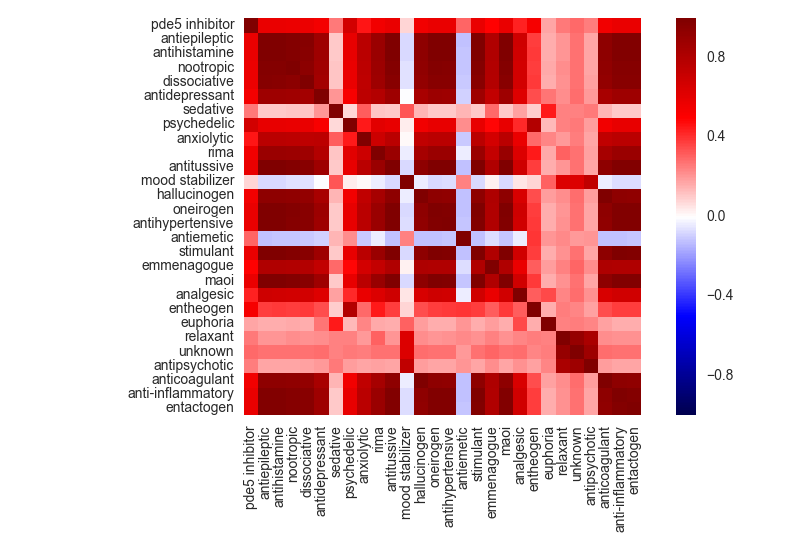
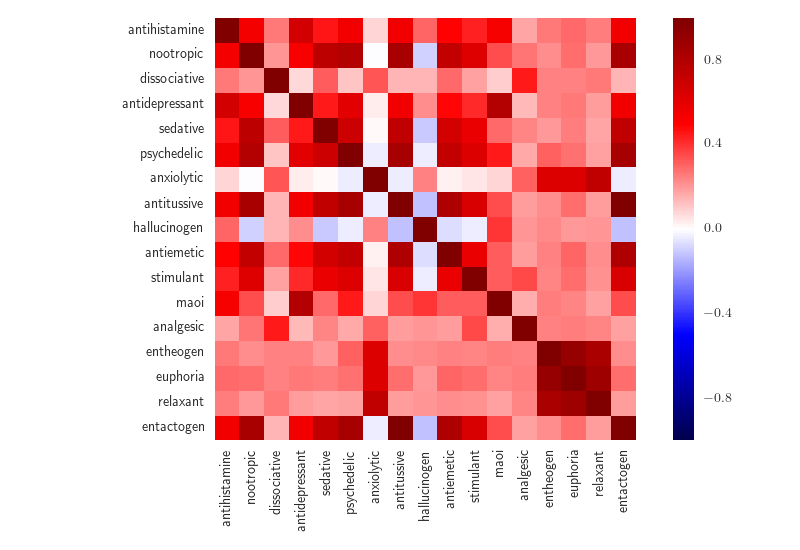
update

diff --git a/src/effect-cluster.py b/src/effect-cluster.py
@@ -1,4 +1,4 @@
-import json
+import json, brewer2mpl
 
 import numpy as np 
 import matplotlib.pyplot as plt 
@@ -10,7 +10,7 @@ import matplotlib.ticker as plticker
 from sklearn.cluster import KMeans, AgglomerativeClustering
 from sklearn.decomposition import PCA
 from sklearn.metrics import silhouette_score
-from sys import argv
+from awesome_print import ap 
 from matplotlib import rcParams
 rcParams['text.usetex'] = True
 
@@ -18,9 +18,9 @@ m = np.loadtxt('../data/effect-matrix-actually-occurred.tsv',delimiter='\t')
 effects = open('../data/effects-that-actually-occurred','rb').read().splitlines()
 x = m.dot(m.T)
 x /= float(m.shape[1])
-var = x.var(axis=0)
-mu = x.mean(axis=0)
-x = (x - mu)/var
+#var = x.var(axis=0)
+#mu = x.mean(axis=0)
+#x = (x - mu)/var
 
 '''
 #Visualize correlation matrix
@@ -31,13 +31,11 @@ ax.set_yticklabels(effects,rotation='horizontal')
 ax.set_xticklabels(effects[::-1],rotation='vertical')
 plt.tight_layout()
 plt.savefig('../imgs/effect-correlation-matrix.png')
+del fig,ax
 '''
-
-
 pca = PCA(n_components=10)
 X = pca.fit_transform(x)
 
-'''
 #Scree plot
 fig = plt.figure()
 ax = fig.add_subplot(111)
@@ -51,9 +49,8 @@ ax.set_xlabel(artist.format('Principal Component'))
 ax.set_xlim(xmin=0.5,xmax=5.5)
 plt.tight_layout()
 plt.savefig('../imgs/scree-plot.png')
-
 del fig,ax
-'''
+
 '''
 fig = plt.figure()
 ax = fig.add_subplot(111)
@@ -73,7 +70,7 @@ plt.show()
 #Kmeans just as good as agglomerative here 
 silhouettes = {}
 to_save = {}
-for nclus in xrange(2,5):
+for nclus in xrange(2,6):
 	kmeans = KMeans(n_clusters=nclus,n_init=2)
 	labels = kmeans.fit_predict(X)
 
@@ -85,8 +82,8 @@ for nclus in xrange(2,5):
 					  "labels":labels.tolist()}
 	print '%d clusters: %.04f'%(nclus,silhouettes[nclus])
 
-'''
-json.dump(to_save,open('../data/%s-matrix-kmeans-cluster-labels.json'%filename,'wb'))
+json.dump(to_save,open('../data/effect-matrix-kmeans-cluster-labels.json','wb'))
+
 fig = plt.figure()
 ax = fig.add_subplot(111)
 
@@ -103,5 +100,39 @@ ax.set_xticklabels(map(artist.format,clusters))
 ax.set_ylabel(artist.format('Silhouette score'))
 ax.set_yticks([0.6,0.8,1])
 plt.tight_layout()
-plt.savefig('../imgs/%s-silhouette-score.png'%filename)
-'''
+plt.savefig('../imgs/effect-silhouette-score.png')
+del fig,ax
+
+labels = to_save[2]["labels"]
+colors = {label:color for label,color in zip(np.unique(labels),
+						brewer2mpl.get_map('Set2', 'qualitative', 8).mpl_colors)}
+shapes = {label:shape for label,shape in zip(np.unique(labels),
+									['o','s','*','x','D'])}
+
+fig,axs = plt.subplots(ncols=2,sharex=True,sharey=True)
+#display pcs on left
+axs[0].scatter(X[:,0],X[:,1],c=X[:,2],
+	cmap=plt.cm.seismic,alpha=0.8, clip_on=False)
+artist.adjust_spines(axs[0])
+axs[0].set_xlabel(artist.format('PC 1'))
+axs[0].set_ylabel(artist.format('PC 2'))
+axs[0].set_aspect('equal')
+loc = plticker.MultipleLocator(base=1.0)
+axs[0].xaxis.set_major_locator(loc)
+axs[0].yaxis.set_major_locator(loc)
+
+#--Print out effects in each cluster
+d = {cluster:[effect for i,effect in enumerate(effects)
+					if labels[i]==cluster] for cluster in np.unique(labels)}
+
+for i in xrange(X.shape[0]):
+	axs[1].scatter(X[i,0],X[i,1],marker=shapes[labels[i]],c=colors[labels[i]],alpha=0.8)
+artist.adjust_spines(axs[1])
+axs[1].set_xlabel(artist.format('PC 1'))
+axs[1].set_ylabel(artist.format('PC 2'))
+axs[1].annotate('\n'.join(d[1]),xy=(0.05,0.6),color=colors[1],xycoords='axes fraction')
+axs[1].annotate('\n'.join(d[0]),xy=(0.5,0.06),color=colors[0],xycoords='axes fraction')
+
+plt.tight_layout()
+plt.savefig('../imgs/effect-matrix-pca-w-clusters.png')
+

diff --git a/src/effect-occurrence.py b/src/effect-occurrence.py
@@ -33,10 +33,11 @@ json.dump({'expected occurrence':len(db)/float(len(effects)),
 
 #--- Exclude effects that never occurred 
 
-idx = [i for i,effect in enumerate(effects) if tally[effect]>0]
+idx = [i for i,effect in enumerate(effects) if tally[effect]>200]
 better_m = m[idx,:]
 
-np.savetxt('../data/effect-matrix-actually-occurred.tsv',better_m,delimiter='\t')
+np.savetxt('../data/effect-matrix-actually-occurred.tsv',better_m,
+	delimiter='\t', format='%d')
 
 with open('../data/effects-that-actually-occurred','wb') as fid:
 	for i in idx:
